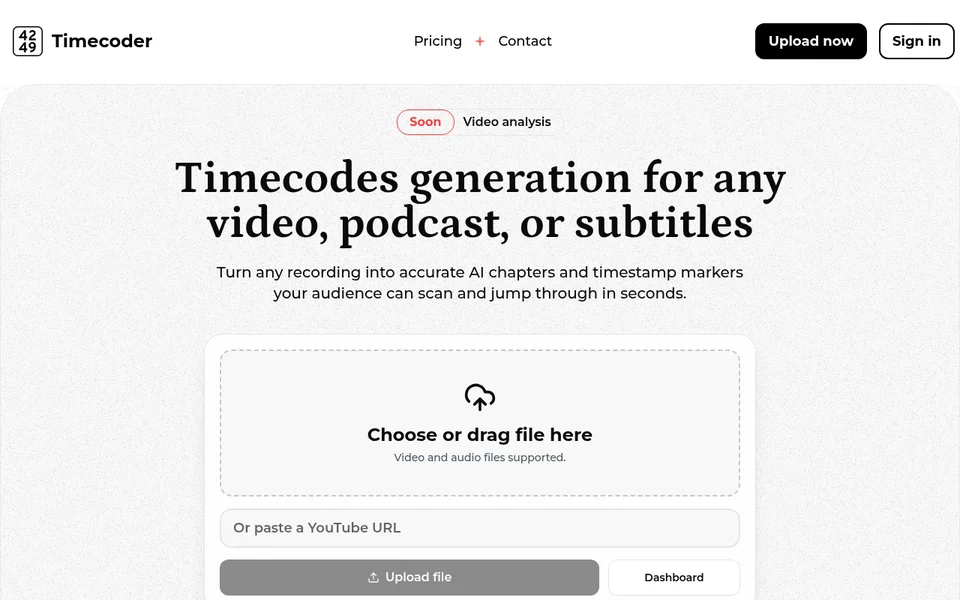
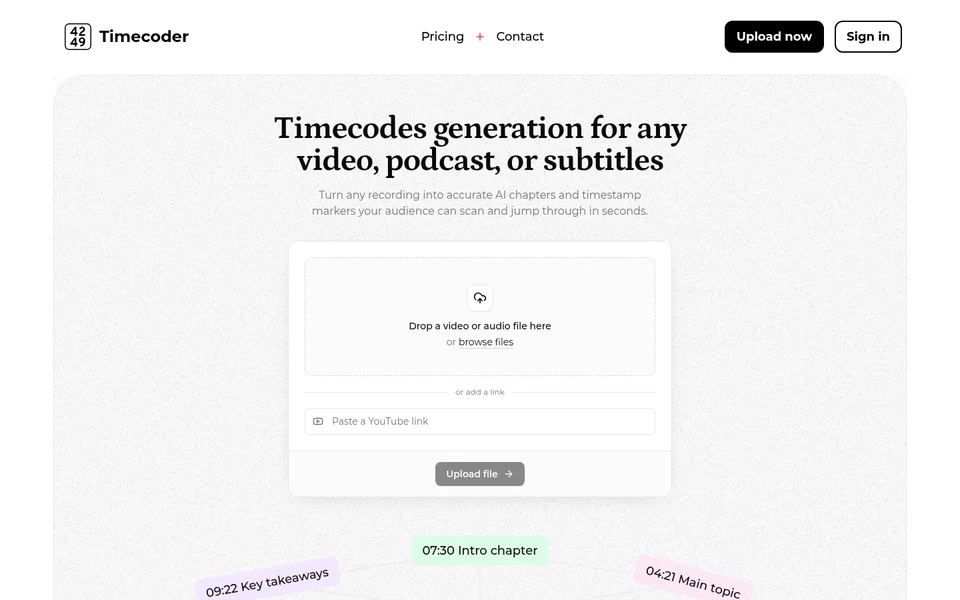
Add staggered unblur page animation

diff --git a/dist/assets/main-CwPwOp_L.css b/dist/assets/main-CwPwOp_L.css
@@ -1,0 +1,1 @@
[1 lines of base64/hex data omitted]

diff --git a/dist/index.html b/dist/index.html
@@ -16,9 +16,21 @@
       src="https://umami.hrebeni.uk/umami"
       data-website-id="3a46c34f-e5a6-4c96-8eb1-570fbc78b36a"
     ></script>
-    <link rel="stylesheet" crossorigin href="/assets/main-DRm_mdbH.css">
+    <link rel="stylesheet" crossorigin href="/assets/main-CwPwOp_L.css">
   </head>
   <body>
+    <script>
+      if (!window.matchMedia("(prefers-reduced-motion: reduce)").matches) {
+        document.documentElement.classList.add("has-unblur-motion");
+        document.addEventListener("DOMContentLoaded", () => {
+          const blocks = [...document.querySelectorAll("main > header, main > section, main > footer, main > section article")];
+          blocks.forEach((block, index) => {
+            block.style.animationDelay = `${Math.min(index * 90, 900)}ms`;
+            block.classList.add("unblur-in");
+          });
+        });
+      }
+    </script>
     <main class="px-5 py-10 mx-auto max-w-4xl md:px-10 md:py-16">
       <header class="mb-14">
         <div class="mt-5">
@@ -55,6 +67,23 @@
       <section >
         <h2 class="text-2xl font-semibold text-white md:text-3xl">Selected work</h2>
         <div class="work-list mt-7">
+          <article class="featured-work featured-work-with-preview">
+            <div class="featured-work-copy">
+              <p class="text-sm font-medium text-neutral-400">Founder</p>
+              <h3 class="mt-2 text-2xl font-semibold text-white">
+                <a href="https://delator.io" class="transition-opacity hover:opacity-70">Delator</a>
+              </h3>
+              <p class="mt-3 text-neutral-300">
+                Research platform for tracking narratives, topics, and authors on X.
+                Explore emerging discussions, follow how narratives evolve, and
+                research connections between people and ideas.
+              </p>
+            </div>
+            <a href="https://delator.io" class="project-preview-link featured-work-preview" aria-label="Open Delator">
+              <img src="./delator-preview.webp" alt="Delator narrative research interface" class="project-preview-image" width="960" height="600" loading="lazy" />
+            </a>
+          </article>
+
           <article class="featured-work featured-work-with-preview">
             <div class="featured-work-copy">
             <p

diff --git a/src/index.html b/src/index.html
@@ -19,6 +19,18 @@
     ></script>
   </head>
   <body>
+    <script>
+      if (!window.matchMedia("(prefers-reduced-motion: reduce)").matches) {
+        document.documentElement.classList.add("has-unblur-motion");
+        document.addEventListener("DOMContentLoaded", () => {
+          const blocks = [...document.querySelectorAll("main > header, main > section, main > footer, main > section article")];
+          blocks.forEach((block, index) => {
+            block.style.animationDelay = `${Math.min(index * 90, 900)}ms`;
+            block.classList.add("unblur-in");
+          });
+        });
+      }
+    </script>
     <main class="px-5 py-10 mx-auto max-w-4xl md:px-10 md:py-16">
       <header class="mb-14">
         <div class="mt-5">
@@ -55,6 +67,23 @@
       <section >
         <h2 class="text-2xl font-semibold text-white md:text-3xl">Selected work</h2>
         <div class="work-list mt-7">
+          <article class="featured-work featured-work-with-preview">
+            <div class="featured-work-copy">
+              <p class="text-sm font-medium text-neutral-400">Founder</p>
+              <h3 class="mt-2 text-2xl font-semibold text-white">
+                <a href="https://delator.io" class="transition-opacity hover:opacity-70">Delator</a>
+              </h3>
+              <p class="mt-3 text-neutral-300">
+                Research platform for tracking narratives, topics, and authors on X.
+                Explore emerging discussions, follow how narratives evolve, and
+                research connections between people and ideas.
+              </p>
+            </div>
+            <a href="https://delator.io" class="project-preview-link featured-work-preview" aria-label="Open Delator">
+              <img src="./delator-preview.webp" alt="Delator narrative research interface" class="project-preview-image" width="960" height="600" loading="lazy" />
+            </a>
+          </article>
+
           <article class="featured-work featured-work-with-preview">
             <div class="featured-work-copy">
             <p

diff --git a/src/main.css b/src/main.css
@@ -22,6 +22,15 @@
 }
 
 @layer components {
+    .unblur-in {
+        animation: unblur-in 700ms cubic-bezier(.2, .7, .2, 1) both;
+    }
+
+    @keyframes unblur-in {
+        from { opacity: 0; filter: blur(12px); transform: translateY(12px); }
+        to { opacity: 1; filter: blur(0); transform: translateY(0); }
+    }
+
     .hero-layout {
         display: grid;
         grid-template-columns: minmax(0, 1fr) 5rem;
@@ -436,6 +445,7 @@
 }
 
 @media (prefers-reduced-motion: reduce) {
+    .unblur-in { animation: none; }
     .project-preview-image,
     .modal-image {
         transition: none;

diff --git a/dist/covered-privacy.html b/dist/covered-privacy.html
@@ -5,7 +5,7 @@
     <meta name="viewport" content="width=device-width, initial-scale=1.0" />
     <meta name="robots" content="noindex, nofollow" />
     <title>Covered Privacy Policy</title>
-    <link rel="stylesheet" crossorigin href="/assets/main-DRm_mdbH.css">
+    <link rel="stylesheet" crossorigin href="/assets/main-CwPwOp_L.css">
   </head>
   <body>
     <main class="px-5 py-10 mx-auto max-w-3xl md:px-10 md:py-16">
